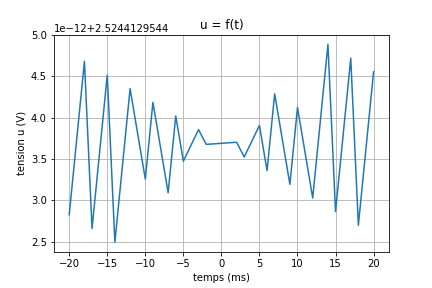
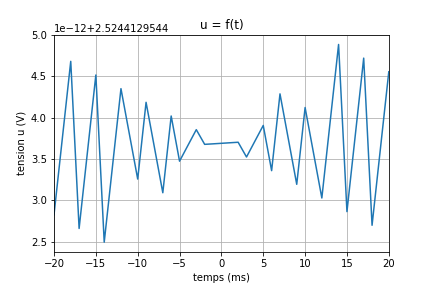
projet fini formule marche pas

diff --git a/test.py b/test.py
@@ -1,16 +1,14 @@
 # -*- coding: utf-8 -*-
 """
-Created on Fri Jun 26 08:58:23 2020
+Created on Fri Jun 26 15:33:35 2020
 
 @author: timot
 """
 
 import matplotlib.pyplot as plt
 
-
-import tkinter
 import math
-
+import tkinter
 
 def graph(u_max: int, o: int):
     """fonction qui retourne le graphique
@@ -36,23 +34,19 @@ def graph(u_max: int, o: int):
     y = []
     for t in range(-20, 21):
         x.append(t)
-        y.append(u_max * math.sin(2 * math.pi * f * t + o))
+        y.append(u_max * math.sin(2 * math.pi * t + o))
     plt.plot(x, y, label="u=f(t)")
-    plt.xlim(-20, 20)
     plt.xlabel("temps (ms)")
     plt.ylabel("tension u (V)")
     plt.title("u = f(t)")
     plt.grid()
     plt.savefig("figure.png")
-    plt.close()
 
 
-def refreshaaaaa():
-    global scale_amplitude, scale_phase, img_cnv, caneva
-    graph(scale_amplitude.get(), scale_phase.get())
-    caneva.delete("all")
-    img_cnv = tkinter.PhotoImage(file="figure.png")
-    caneva.create_image(250, 200, image=img_cnv)
+def refresh(a):
+    global curseur_1, curseur_2, img
+    graph(curseur_1.get(), curseur_2.get())
+    img_cnv = tkinter.PhotoImage(file="figure.png").zoom(50).subsample(12)
 
 
 def quit_app():
@@ -62,59 +56,36 @@ def quit_app():
 
 # Définition de la fenêtre
 window = tkinter.Tk()
-window.geometry(
-    "500x500+{}+{}".format(
-        window.winfo_screenwidth()//3,
-        window.winfo_screenheight()//3
-    )
-)
+window.geometry("500x500+100+100")
 window.minsize(500, 500)
 window.maxsize(500, 500)
 window.title("Graphique")
+window.config(background="#333333")
 
 # frame principal
-master_frame = tkinter.Frame(window)
+master_frame = tkinter.Frame(window, bg="#777777")
 
 # =============================================================================
-# frame qui contient les curseur et bouton
-frame_2 = tkinter.Frame(master_frame)
+# Frame_2
+frame_2 = tkinter.Frame(master_frame, bg="red", width=500, height=500)
+texte = tkinter.Label(frame_2, text="texte")
+texte.pack(expand=tkinter.YES)
 
-# curseur phase
-scale_phase = tkinter.Scale(
+curseur_1 = tkinter.Scale(
+    frame_2,
+    from_=1,
+    to=10,
+    orient='horizontal',
+    label="curseur"
+)
+curseur_1.pack(expand=tkinter.YES)
+curseur_2 = tkinter.Scale(
     frame_2,
     from_=-2,
     to=2,
-    orient="horizontal",
-    label="Phase (rad)"
+    orient='horizontal',
+    label="curseur"
 )
-scale_phase.set(1)
-scale_phase.grid(row=0, column=1, sticky=tkinter.W)
-
-# curseur amplictude
-scale_amplitude = tkinter.Scale(
-    frame_2,
-    from_=0,
-    to=10,
-    orient="horizontal",
-    label="amplitude"
-
-)
-scale_amplitude.set(3)
-scale_amplitude.grid(row=0, column=2, sticky=tkinter.W)
-
-# bouton update
-update_button = tkinter.Button(
-    frame_2,
-    text="Update",
-    command=refreshaaaaa
-)
-update_button.grid(row=0, column=0, sticky= tkinter.W)
-quit_button = tkinter.Button(
-    frame_2,
-    text="quitter",
-    command=quit_app
-)
-quit_button.grid(row=0, column=3, sticky=tkinter.W)
 
 frame_2.grid(row=1, column=0, sticky=tkinter.W)
 # =============================================================================
@@ -122,13 +93,14 @@ frame_2.grid(row=1, column=0, sticky=tkinter.W)
 # =============================================================================
 # frame qui contient le graph
 
-frame_1 = tkinter.Frame(master_frame, width=500, height=400)
+frame_1 = tkinter.Frame(master_frame, bg="blue")
+img = tkinter.PhotoImage(file="figure.png")
+refresh(1)
 caneva = tkinter.Canvas(frame_1, width=500, height=400)
-refreshaaaaa()
-caneva.create_image(250, 250, image=img_cnv)
-caneva.pack()
+caneva.create_image(250, 200, image=img)
+caneva.pack(expand=tkinter.YES)
 
-frame_1.grid(row=0,column=0, sticky=tkinter.W, expand=tkinter.YES)
+frame_1.grid(row=0,column=0, sticky=tkinter.W)
 # =============================================================================
 # lancement de la fenêtre
 master_frame.pack()
